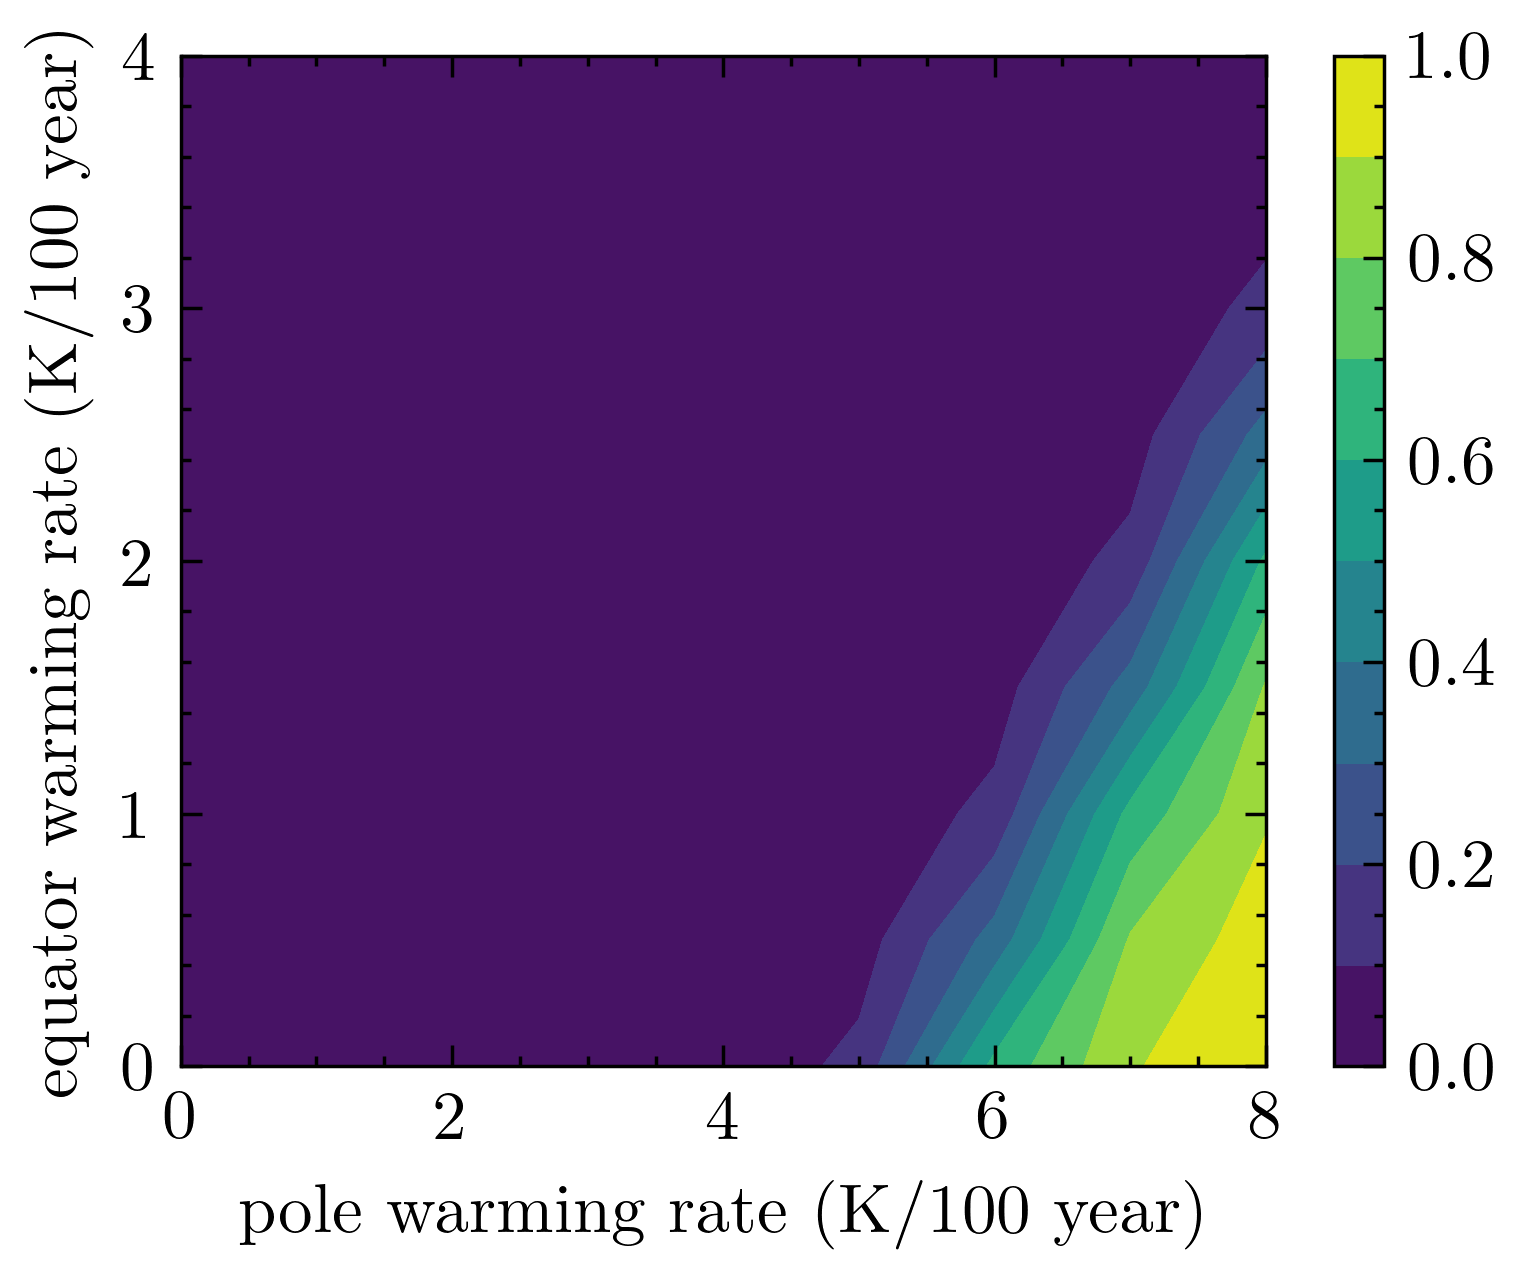
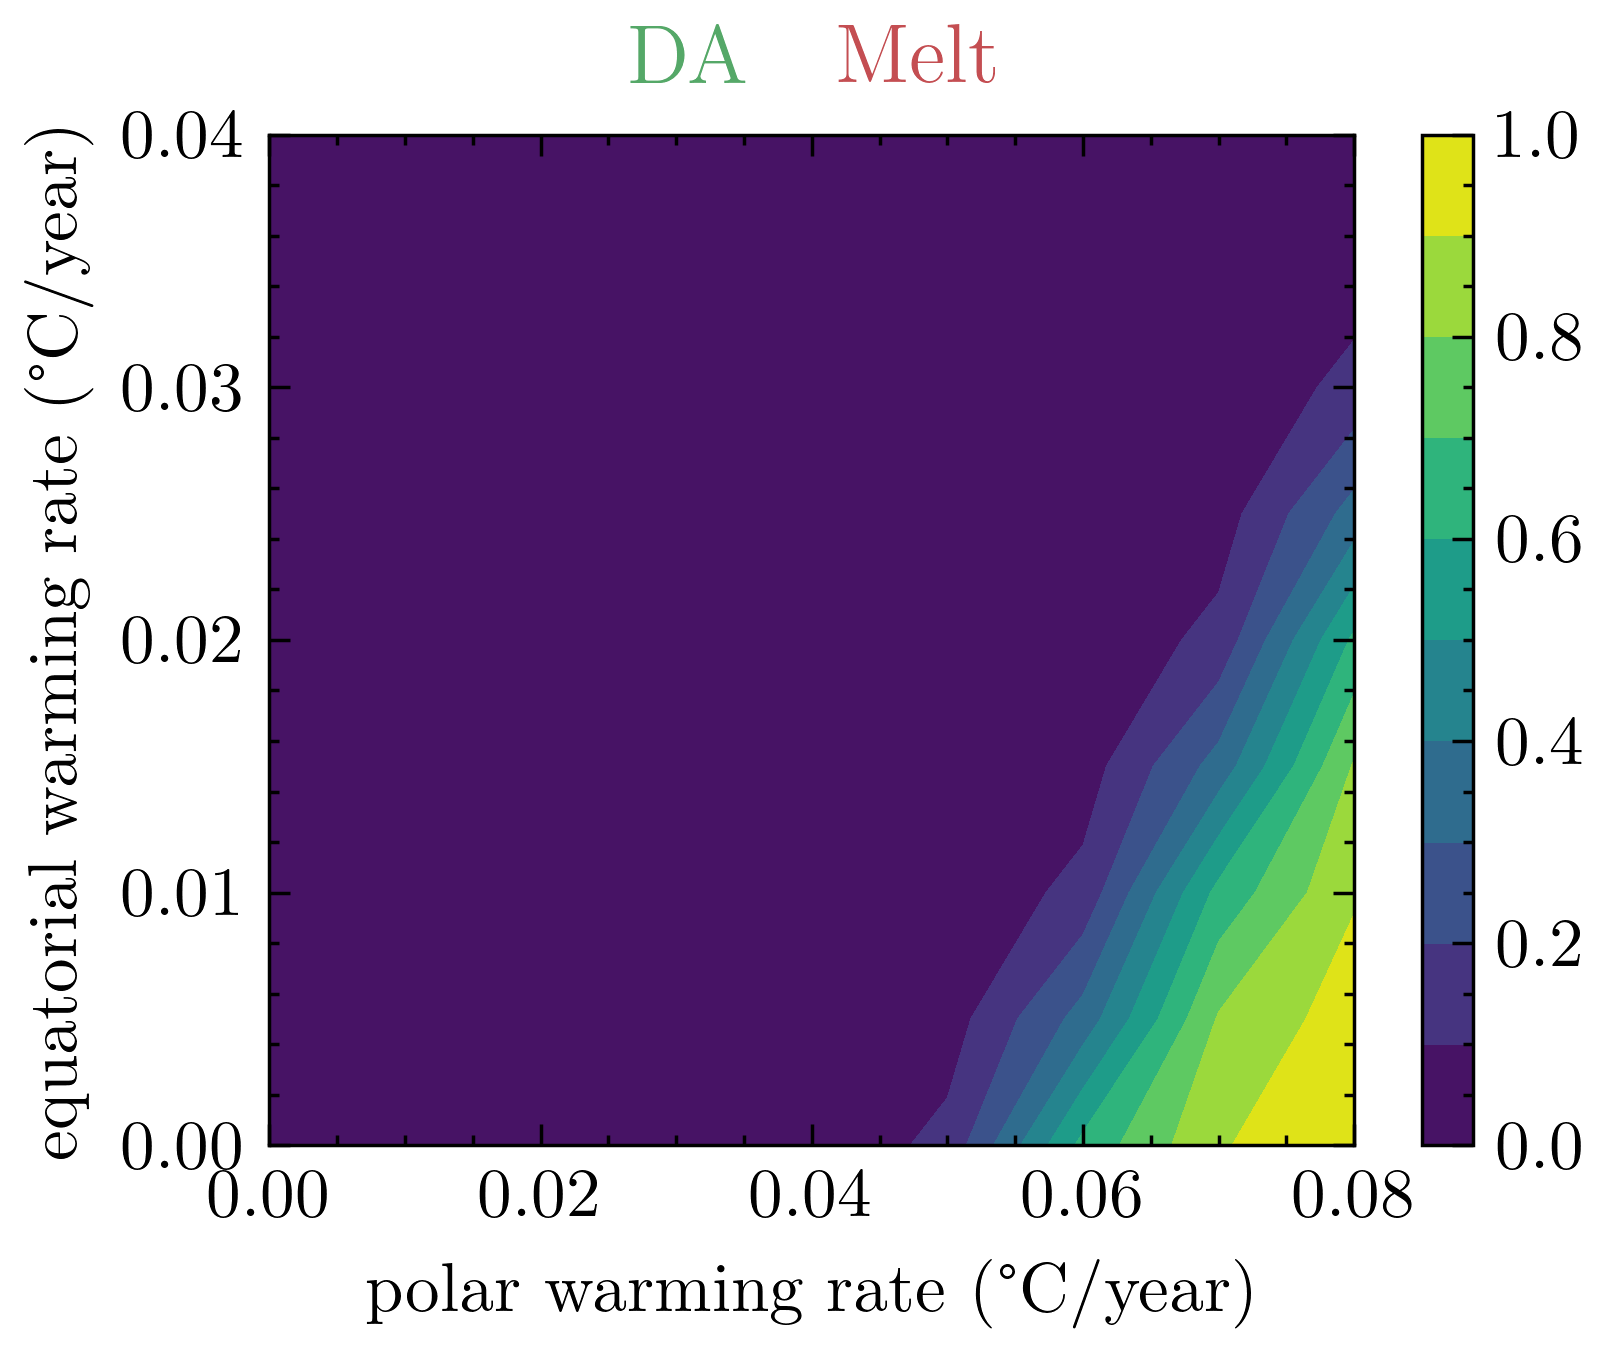
Changed some files

Changed region(s): [[0.0, 0.0, 0.9888, 0.9796]]

diff --git a/dapper/mods/Stommel/Experiments/Create Graphs clima_var2.py b/dapper/mods/Stommel/Experiments/Create Graphs clima_var2.py
@@ -1,0 +1,67 @@
+import numpy as np
+import matplotlib.pyplot as plt
+from matplotlib import rc
+import dapper.mods.Stommel.Experiments as exp
+import os
+import scienceplots
+# from matplotlib.legend_handler import HandlerLine2D
+rc('text', usetex=True)
+plt.style.use(['science']) # style used in scientific papers(LaTeX based)
+
+#clima_forcing_var_2
+clima_var2 = np.load('Data/clima_forcing_var2.npz')
+clima_var2_da = np.load('Data/clima_forcing_var2_da.npz')
+clima_var2_nomelt = np.load('Data/clima_forcing_var2_nomelt.npz')
+clima_var2_da_nomelt = np.load('Data/clima_forcing_var2_da_nomelt.npz')
+
+levels = np.arange(0., 1.1, .1)
+
+# DA = off, Melt = on
+fig1,ax1 = plt.subplots()
+ax1.set_xlabel("polar warming rate (°C/year)")
+ax1.set_ylabel("equatorial warming rate (°C/year)")
+cs1 = ax1.contourf(clima_var2['arr_0']/100, clima_var2['arr_1']/100, clima_var2['arr_2'], levels)
+fig1.colorbar(cs1)
+
+fig1.text(0.40, 0.92, "DA", fontsize='large', color='r', ha ='right')
+fig1.text(0.45, 0.92, "Melt", fontsize='large', color='g', ha ='left')
+fig1.savefig(os.path.join(exp.fig_dir,
+                         'clima_forcing_var2.png'), format='png', dpi=500)
+
+# DA = on, Melt = on
+fig2,ax2 = plt.subplots()
+ax2.set_xlabel("polar warming rate (°C/year)")
+ax2.set_ylabel("equatorial warming rate (°C/year)")
+cs2 = ax2.contourf(clima_var2_da['arr_0']/100, clima_var2_da['arr_1']/100, clima_var2_da['arr_2'], levels)
+fig2.colorbar(cs2)
+
+fig2.text(0.40, 0.92, "DA", fontsize='large', color='g', ha ='right')
+fig2.text(0.45, 0.92, "Melt", fontsize='large', color='g', ha ='left')
+fig2.savefig(os.path.join(exp.fig_dir,
+                         'clima_forcing_var2_da.png'), format='png', dpi=500)
+
+# DA = off, Melt = off
+fig3,ax3 = plt.subplots()
+ax3.set_xlabel("polar warming rate (°C/year)")
+ax3.set_ylabel("equatorial warming rate (°C/year)")
+cs3 = ax3.contourf(clima_var2_nomelt['arr_0']/100, clima_var2_nomelt['arr_1']/100, clima_var2_nomelt['arr_2'], levels)
+fig3.colorbar(cs3)
+
+fig3.text(0.40, 0.92, "DA", fontsize='large', color='r', ha ='right')
+fig3.text(0.45, 0.92, "Melt", fontsize='large', color='r', ha ='left')
+fig3.savefig(os.path.join(exp.fig_dir,
+                         'clima_forcing_var2_nomelt.png'), format='png', dpi=500)
+
+# DA = on, Melt = off
+fig4,ax4 = plt.subplots()
+ax4.set_xlabel("polar warming rate (°C/year)")
+ax4.set_ylabel("equatorial warming rate (°C/year)")
+cs4 = ax4.contourf(clima_var2_da_nomelt['arr_0']/100, clima_var2_da_nomelt['arr_1']/100, clima_var2_da_nomelt['arr_2'], levels)
+fig4.colorbar(cs4)
+
+fig4.text(0.40, 0.92, "DA", fontsize='large', color='g', ha ='right')
+fig4.text(0.45, 0.92, "Melt", fontsize='large', color='r', ha ='left')
+fig4.savefig(os.path.join(exp.fig_dir,
+                         'clima_forcing_var2_da_nomelt.png'), format='png', dpi=500)
+
+plt.show()

diff --git a/dapper/mods/Stommel/Experiments/Create Graphs clima_var3.py b/dapper/mods/Stommel/Experiments/Create Graphs clima_var3.py
@@ -1,0 +1,46 @@
+import numpy as np
+import matplotlib.pyplot as plt
+from matplotlib import rc
+import dapper.mods.Stommel.Experiments as exp
+import os
+import scienceplots
+# from matplotlib.legend_handler import HandlerLine2D
+rc('text', usetex=True)
+plt.style.use(['science']) # style used in scientific papers(LaTeX based)
+
+#clima_var3_10 = np.load('Data/clima_forcing_var3_10.0%.npz')
+clima_var3_da_10 = np.load('Data/clima_forcing_var3_da_10.0%.npz')
+#clima_var3_50 = np.load('Data/clima_forcing_var3_50.0%.npz')
+clima_var3_da_50 = np.load('Data/clima_forcing_var3_da_50.0%.npz')
+#clima_var3_90 = np.load('Data/clima_forcing_var3_90.0%.npz')
+clima_var3_da_90 = np.load('Data/clima_forcing_var3_da_90.0%.npz')
+
+# 10%
+fig1,ax1 = plt.subplots()
+ax1.set_xlabel("polar warming rate (°C/year)")
+ax1.set_ylabel("Melt time (Years)")
+ax1.scatter(clima_var3_da_10['arr_0']/100, clima_var3_da_10['arr_1'], marker = ".")
+
+fig1.text(0.5, 0.9, "10\%", fontsize='large', ha ='center')
+fig1.savefig(os.path.join(exp.fig_dir,
+                         'clima_forcing_var3_da_10.0%.png'), format='png', dpi=500)
+
+# 50%
+fig2,ax2 = plt.subplots()
+ax2.set_xlabel("polar warming rate (°C/year)")
+ax2.set_ylabel("Melt time (Years)")
+ax2.scatter(clima_var3_da_50['arr_0']/100, clima_var3_da_50['arr_1'], marker = ".")
+
+fig2.text(0.5, 0.9, "50\%", fontsize='large', ha ='center')
+fig2.savefig(os.path.join(exp.fig_dir,
+                         'clima_forcing_var3_da_50.0%.png'), format='png', dpi=500)
+
+# 90%
+fig3,ax3 = plt.subplots()
+ax3.set_xlabel("polar warming rate (°C/year)")
+ax3.set_ylabel("Melt time (Years)")
+ax3.scatter(clima_var3_da_90['arr_0']/100, clima_var3_da_90['arr_1'], marker = ".")
+
+fig3.text(0.5, 0.9, "90\%", fontsize='large', ha ='center')
+fig3.savefig(os.path.join(exp.fig_dir,
+                         'clima_forcing_var3_da_90.0%.png'), format='png', dpi=500)

diff --git a/dapper/mods/Stommel/Experiments/Create Graphs ref_forcing_var.py b/dapper/mods/Stommel/Experiments/Create Graphs ref_forcing_var.py
@@ -1,0 +1,36 @@
+import numpy as np
+import matplotlib.pyplot as plt
+from matplotlib import rc
+import dapper.mods.Stommel.Experiments as exp
+import os
+import scienceplots
+# from matplotlib.legend_handler import HandlerLine2D
+rc('text', usetex=True)
+plt.style.use(['science']) # style used in scientific papers(LaTeX based)
+
+ref_forcing = np.load('Data/ref_forcing_var.npz')
+ref_forcing_da = np.load('Data/ref_forcing_var_da.npz')
+
+levels = np.arange(0., 1.1, .1)
+
+# DA = off
+fig1,ax1 = plt.subplots()
+ax1.set_xlabel("$\sigma_T$ (°C)")
+ax1.set_ylabel("$\sigma_S$ (ppt)")
+cs1 = ax1.contourf(ref_forcing['arr_0'], ref_forcing['arr_1'], ref_forcing['arr_2'], levels)
+fig1.colorbar(cs1)
+
+fig1.text(0.45, 0.92, "DA", fontsize='large', color='r', ha ='center')
+fig1.savefig(os.path.join(exp.fig_dir,
+                         'ref_forcing_var.png'), format='png', dpi=500)
+
+# DA = on
+fig2,ax2 = plt.subplots()
+ax2.set_xlabel("$\sigma_T$ (°C)")
+ax2.set_ylabel("$\sigma_S$ (ppt)")
+cs2 = ax2.contourf(ref_forcing_da['arr_0'], ref_forcing_da['arr_1'], ref_forcing_da['arr_2'], levels)
+fig2.colorbar(cs2)
+
+fig2.text(0.45, 0.92, "DA", fontsize='large', color='g', ha ='center')
+fig2.savefig(os.path.join(exp.fig_dir,
+                         'ref_forcing_var_da.png'), format='png', dpi=500)

diff --git a/dapper/mods/Stommel/Experiments/clima_forcing_var3.py b/dapper/mods/Stommel/Experiments/clima_forcing_var3.py
@@ -90,7 +90,7 @@ def exp_clima_forcing(N=100, seed=1000, T_p_f = 6.0, T_e_f= 3.0, DA = True, T_me
 
     return xp, HMM, model
 
-def point(p_limit = 0.4, w_p = 6.0, T_m0 = 40.*stommel.year, T_mf = 440.*stommel.year,  step = 80.*stommel.year, precision = 5, DA = True):
+def point(p_limit = 0.4, w_p = 6.0, T_m0 = 20.*stommel.year, T_mf = 140.*stommel.year,  step = 30.*stommel.year, precision = 5, DA = True):
     if precision <= 0:
         return T_mf
 
@@ -115,7 +115,7 @@ def point(p_limit = 0.4, w_p = 6.0, T_m0 = 40.*stommel.year, T_mf = 440.*stommel
 
 
 DA = True
-prob_limit = 0.1
+prob_limit = 0.9
 T_p_f = np.arange(4., 8.5, .5)
 W_p = []
 melt_time = []
@@ -140,7 +140,7 @@ print(melt_time)
 fig,ax = plt.subplots()
 ax.set_xlabel("pole warming rate (K/100years)")
 ax.set_ylabel("Melt Time(year)")
-cs = ax.scatter(W_p, melt_time, marker = ".")
+ax.scatter(W_p, melt_time, marker = ".")
 
 # Save figure and fiòe
 fig.savefig(os.path.join(exp.fig_dir,

diff --git a/dapper/mods/Stommel/Experiments/ref_forcing_var.py b/dapper/mods/Stommel/Experiments/ref_forcing_var.py
@@ -14,9 +14,6 @@ import scienceplots
 rc('text', usetex=True)
 plt.style.use(['science']) # style used in scientific papers(LaTeX based)
 
-# Number of ensemble members
-DA = True
-
 
 def exp_ref_forcing(N=100, seed=1000, T_dev=2., S_dev=.2, DA=True):
     # Timestepping. Timesteps of 1 day, running for 200 year.
@@ -75,8 +72,9 @@ def exp_ref_forcing(N=100, seed=1000, T_dev=2., S_dev=.2, DA=True):
 
 
 #Arrays for values of the final temperatures of pole and equator at the end of climate change
-T_dev_min, T_dev_max, T_dev_step = 30., 50., 5.
-S_dev_min, S_dev_max, S_dev_step = 5.,  25., 5.
+DA = True
+T_dev_min, T_dev_max, T_dev_step = 0.0, 0.6, 0.1
+S_dev_min, S_dev_max, S_dev_step = 0.,  6., 1.
 T_dev = np.arange(T_dev_min, T_dev_max + T_dev_step, T_dev_step)
 S_dev = np.arange(S_dev_min, S_dev_max + S_dev_step, S_dev_step)
 grid_x,  grid_y = np.meshgrid(T_dev, S_dev)
